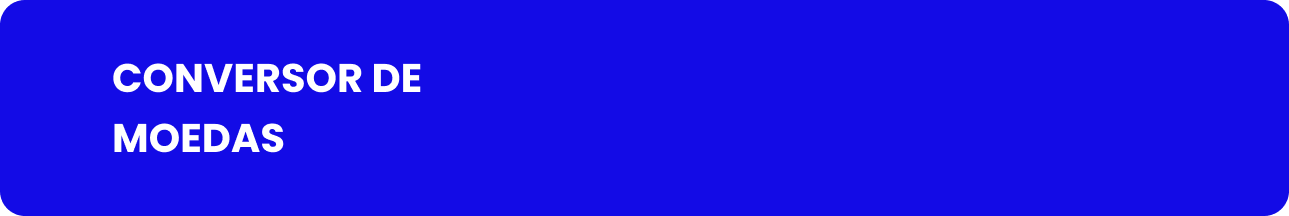
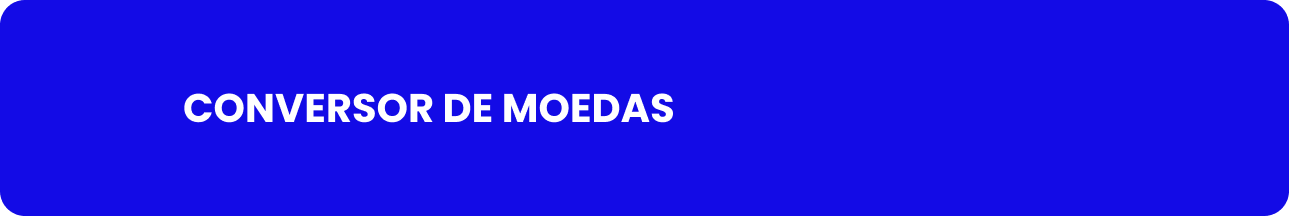
Páginas Flappy Bird e Conversor de moedas

Changed region(s): [[0.0621, 0.2778, 0.5275, 0.7222]]

diff --git a/src/pages/conversor-de-moedas.html b/src/pages/conversor-de-moedas.html
@@ -1,0 +1,81 @@
+<!DOCTYPE html>
+<html lang="pt-BR">
+
+<head>
+    <meta charset="UTF-8">
+    <meta http-equiv="X-UA-Compatible" content="IE=edge">
+    <meta name="viewport" content="width=device-width, initial-scale=1.0">
+    <title>Conversor de Moedas</title>
+    <link rel="stylesheet" href="../../css/index.css">
+</head>
+<header>
+    <div class="division">
+        <a href="../../index.html#home" id="logo">portfólio</a>
+    </div>
+    <div class="division">
+        <ul class="flex">
+            <li> <a href="../../index.html#home">home</a></li>
+            <li> <a href="../../index.html#projetos">projetos</a></li>
+            <li> <a href="../../index.html#cursos">cursos</a></li>
+            <li> <a href="../../index.html#perfil">perfil</a></li>
+        </ul>
+    </div>
+    <div class="division"></div>
+</header>
+
+<body>
+    <section class="container contDecorated project-container" id="conversor-de-moedas">
+        <div class="body-page">
+            <div class="banner"></div>
+            <div class="intro-2">
+                <div>
+                    <h2>Sobre o conversor de moedas</h2>
+                    <p>Desenvolvi este projeto para exercitar meus conhecimentos em HTML, CSS e JavaScript. Para isso, implementei um conversor de moedas online, atualizado em tempo real por meio de uma API.</p>
+                    <p>Um conversor de moedas converte valores em moedas internacionais, mostrando a diferença de valor entre as moedas selecionadas pelo usuário. Os valores são atualizados em tempo real por meio da API da Exchange Rate. Este conversor pode converter mais de 150 moedas e está disponível há mais de 10 anos no mercado.</p>
+                </div>
+
+                <a target="_blank" href="https://frednogueiradev.github.io/conversor-de-moedas/">Clique aqui para testar o projeto!</a>
+
+            </div>
+
+        </div>
+
+        </div>
+    </section>
+    <section class="contBlackAuto container project-container">
+        <div class="body-page">
+            <div class="navigate">
+                <h2>Projeto</h2>
+                <img src="../imgs/project-imgs/conversor-de-moedas/conversor1.png" alt="Imagem projeto">
+
+                <a target="_blank" href="https://frednogueiradev.github.io/conversor-de-moedas/">Clique aqui para testar o projeto!</a>
+
+            </div>
+            <div class="code-area">
+                <h2>Instalação</h2>
+                <div class="description-code-area">
+                    <span>Clonagem do projeto</span>
+                    <textarea readonly>git clone https://github.com/FredNogueiraDev/conversor-de-moedas.git</textarea>
+                </div>
+            </div>
+        </div>
+    </section>
+</body>
+
+<section class="contDecorated">
+    <footer>
+        <ul class="flex">
+            <ul class="flex">
+                <li> <a href="../../index.html#home">home</a></li>
+                <li> <a href="../../index.html#projetos">projetos</a></li>
+                <li> <a href="../../index.html#cursos">cursos</a></li>
+                <li> <a href="../../index.html#perfil">perfil</a></li>
+            </ul>
+        </ul>
+        <hr>
+        </hr>
+        <p>Frederico Nogueira | <b>Meu portfólio pessoal</b> &copy; 2023</p>
+    </footer>
+</section>
+
+</html>

diff --git a/src/pages/flappy-bird.html b/src/pages/flappy-bird.html
@@ -1,0 +1,80 @@
+<!DOCTYPE html>
+<html lang="pt-BR">
+
+<head>
+    <meta charset="UTF-8">
+    <meta http-equiv="X-UA-Compatible" content="IE=edge">
+    <meta name="viewport" content="width=device-width, initial-scale=1.0">
+    <title>Flappy Bird</title>
+    <link rel="stylesheet" href="../../css/index.css">
+</head>
+<header>
+    <div class="division">
+        <a href="../../index.html#home" id="logo">portfólio</a>
+    </div>
+    <div class="division">
+        <ul class="flex">
+            <li> <a href="../../index.html#home">home</a></li>
+            <li> <a href="../../index.html#projetos">projetos</a></li>
+            <li> <a href="../../index.html#cursos">cursos</a></li>
+            <li> <a href="../../index.html#perfil">perfil</a></li>
+        </ul>
+    </div>
+    <div class="division"></div>
+</header>
+
+<body>
+    <section class="container contDecorated project-container" id="flappy-bird">
+        <div class="body-page">
+            <div class="banner"></div>
+            <div class="intro">
+                <div>
+                    <h2>Sobre o Flappy Bird</h2>
+                    <p>Desenvolvi este projeto para exercitar meus conhecimentos em HTML, CSS e JavaScript com a ajuda do professor Leonardo Leitão no curso de programação para web da Cod3r. O objetivo do projeto foi implementar um jogo Flappy Bird utilizando manipulação do DOM, em que o jogador controla um pássaro que deve passar entre canos para marcar pontos e bater recordes.</p>
+                </div>
+                <img src="../imgs/project-imgs/gooday/casual-life-3d.png" alt="Imagem Flappy Bird">
+                <!-- ALTERAR IMAGEM -->
+
+            </div>
+
+        </div>
+
+        </div>
+    </section>
+    <section class="contBlackAuto container project-container">
+        <div class="body-page">
+            <div class="navigate">
+                <h2>Projeto</h2>
+                <img src="../imgs/project-imgs/flappy-bird/flappy1.png" alt="Imagem projeto">
+                <img src="../imgs/project-imgs/flappy-bird/flappy2.png" alt="Imagem projeto">
+                <a target="_blank" href="https://frednogueiradev.github.io/flappy-bird/">Clique aqui para jogar!</a>
+
+            </div>
+            <div class="code-area">
+                <h2>Instalação</h2>
+                <div class="description-code-area">
+                    <span>Clonagem do projeto</span>
+                    <textarea readonly>git clone https://github.com/FredNogueiraDev/flappy-bird.git</textarea>
+                </div>
+            </div>
+        </div>
+    </section>
+</body>
+
+<section class="contDecorated">
+    <footer>
+        <ul class="flex">
+            <ul class="flex">
+                <li> <a href="../../index.html#home">home</a></li>
+                <li> <a href="../../index.html#projetos">projetos</a></li>
+                <li> <a href="../../index.html#cursos">cursos</a></li>
+                <li> <a href="../../index.html#perfil">perfil</a></li>
+            </ul>
+        </ul>
+        <hr>
+        </hr>
+        <p>Frederico Nogueira | <b>Meu portfólio pessoal</b> &copy; 2023</p>
+    </footer>
+</section>
+
+</html>

diff --git a/css/pages.css b/css/pages.css
@@ -19,7 +19,7 @@
   display: flex;
   justify-content: space-around;
   align-items: center;
-  margin-top: 3em;
+  margin-top: 1.5em;
 }
 
 .intro div {
@@ -36,7 +36,7 @@
   width: 100%;
   display: flex;
   flex-direction: column;
-  justify-content: space-around;
+  /* justify-content: space-between; */
   margin-top: 3em;
 }
 
@@ -44,6 +44,9 @@
   margin-top: 1em;
 }
 
+.intro-2 a {
+  margin-top: 1.5em;
+}
 
 .intro-2 li {
   margin: .5em 0 .5em 1em;
@@ -154,12 +157,6 @@ textarea {
   background-repeat: no-repeat;
 }
 
-#weather-app .body-page .banner {
-  background: url("../src/imgs/banners/weatherApp.png");
-  background-position: center center;
-  background-repeat: no-repeat;
-}
-
 #thoughts .body-page .banner {
   background: url("../src/imgs/banners/thoughts.png");
   background-position: center center;
@@ -168,6 +165,18 @@ textarea {
 
 #getAPet .body-page .banner {
   background: url("../src/imgs/banners/getAPet.png");
+  background-position: center center;
+  background-repeat: no-repeat;
+}
+
+#flappy-bird .body-page .banner {
+  background: url("../src/imgs/banners/FlappyBird.png");
+  background-position: center center;
+  background-repeat: no-repeat;
+}
+
+#conversor-de-moedas .body-page .banner {
+  background: url("../src/imgs/banners/conversorDeMoedas.png");
   background-position: center center;
   background-repeat: no-repeat;
 }
